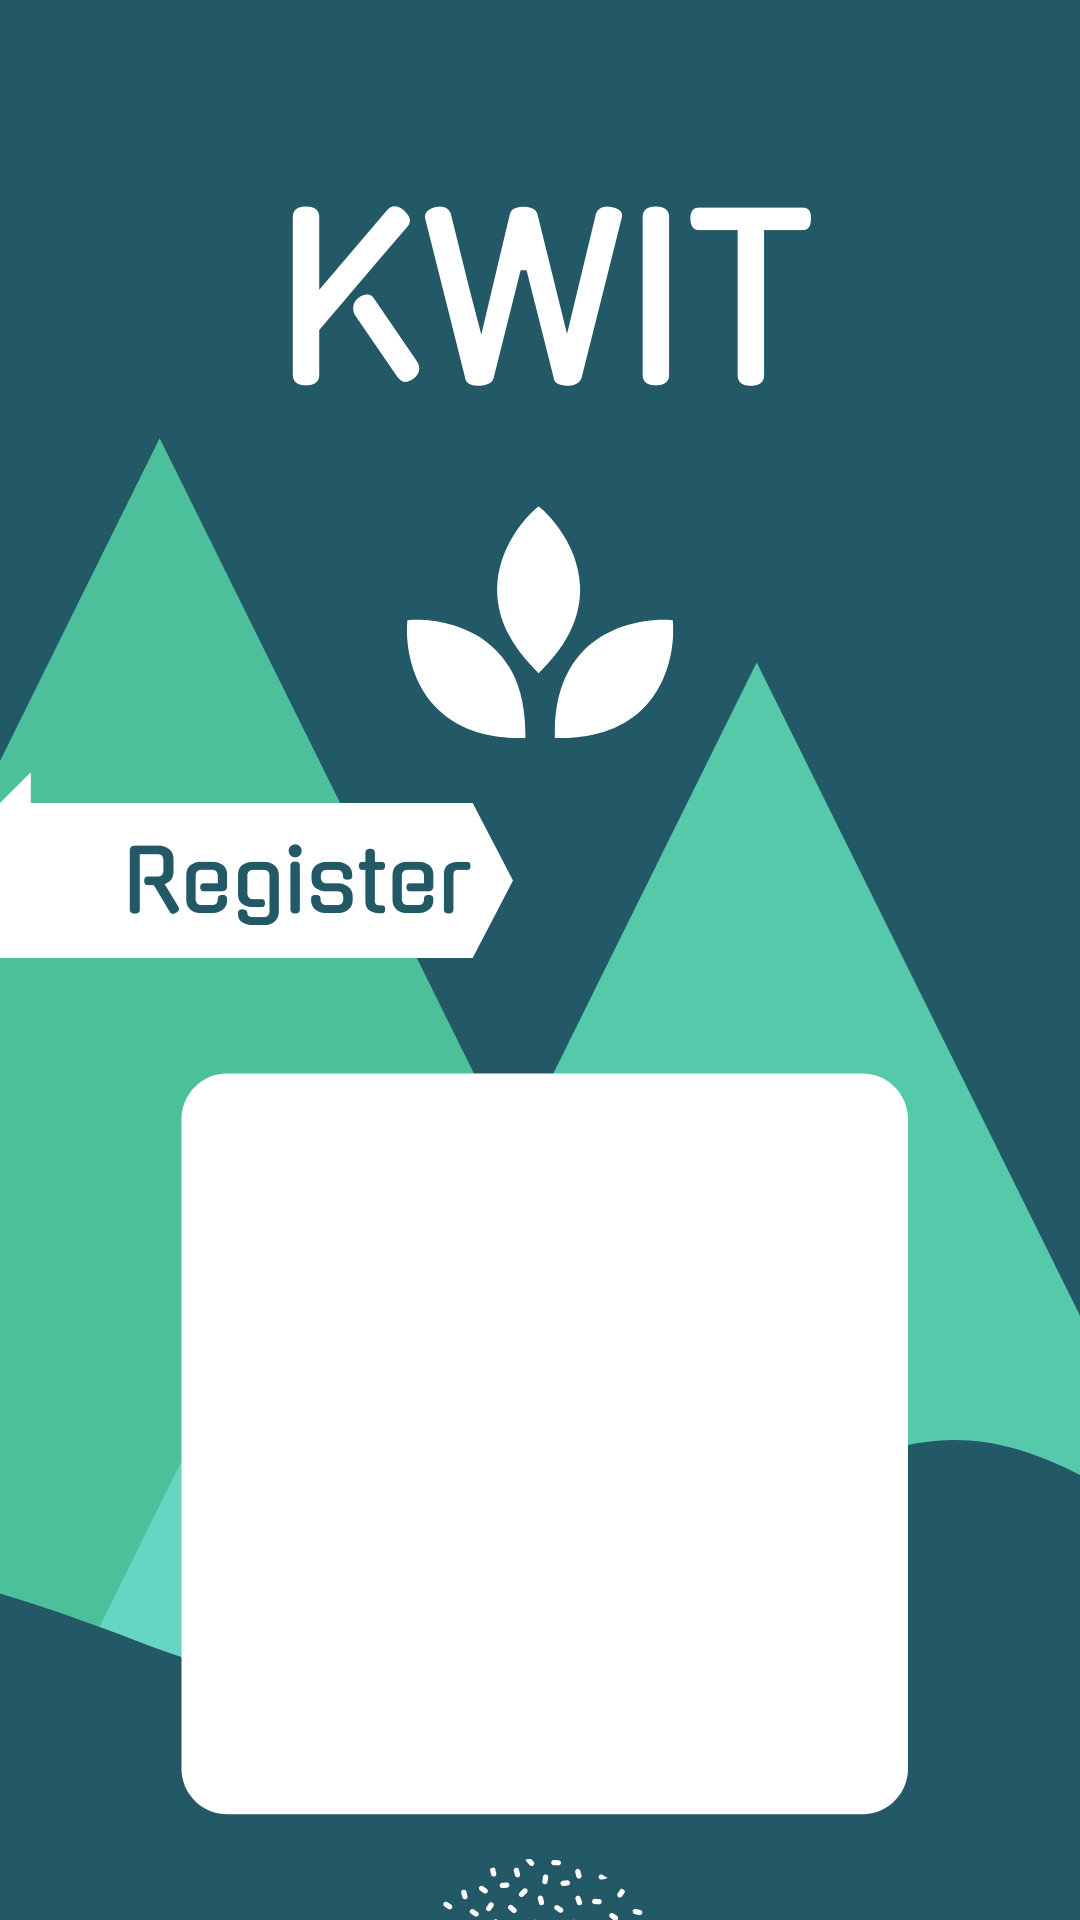
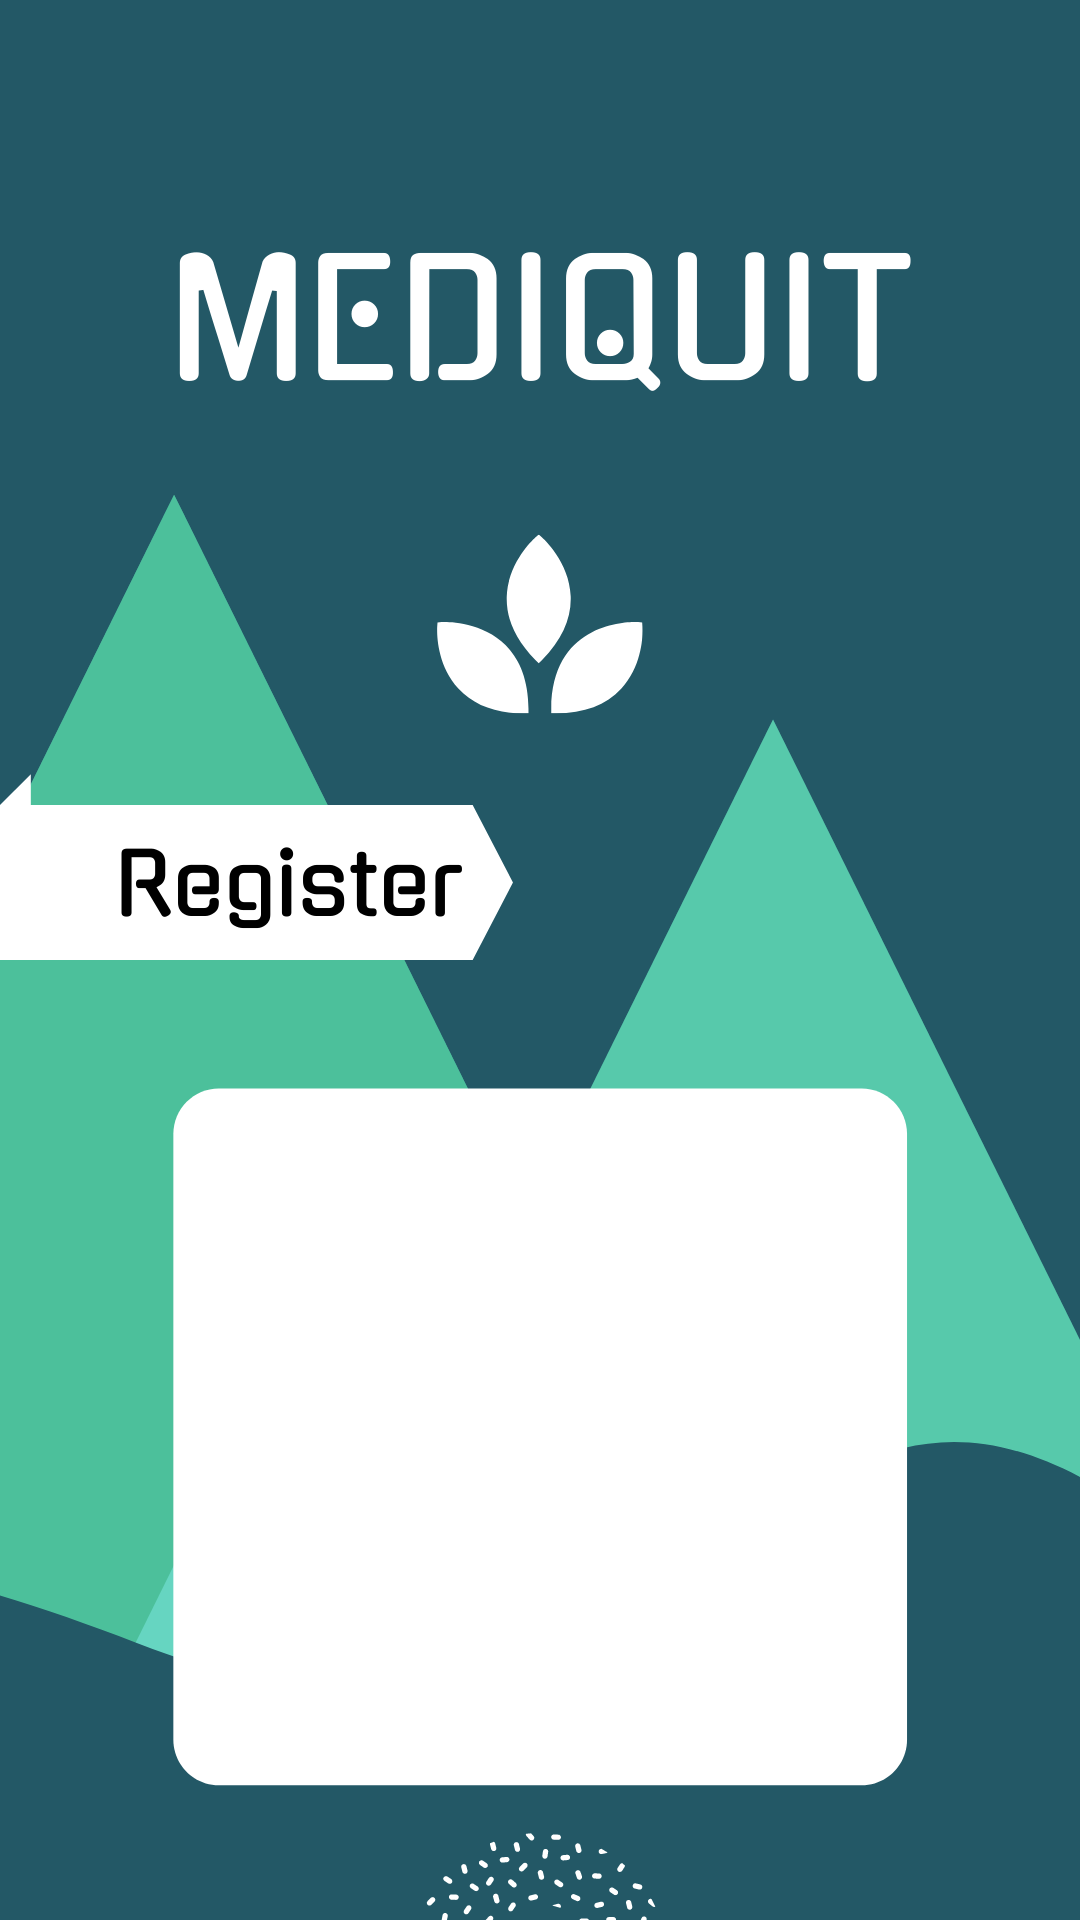
Change names in all portions of the app

diff --git a/lib/screens/dashboard.dart b/lib/screens/dashboard.dart
@@ -90,7 +90,7 @@ class _MyHomePageState extends State<MyHomePage> {
       backgroundColor: const Color(0xFF235866),
       appBar: AppBar(
         backgroundColor: const Color(0xFF235866),
-        title: Text('Kwit: Emotion Relief'),
+        title: Text('Mediquit: Emotion Relief'),
         actions: [
           Padding(
               padding: EdgeInsets.only(right: 20.0),
@@ -264,7 +264,7 @@ class _MyHomePageState extends State<MyHomePage> {
                                   subtitle: new Container(
                                     padding: EdgeInsets.only(top: 10),
                                     child: Text(
-                                      "If you're feeling stressed or experiencing anxiety, kwit is here for you! Working hand in hand with these therapies will allow you to relieve your stress in some extent and we hope you feel better after participating!",
+                                      "If you're feeling stressed or experiencing anxiety, Mediquit is here for you! Working hand in hand with these therapies will allow you to relieve your stress in some extent and we hope you feel better after participating!",
                                       style: TextStyle(
                                         color: const Color(0xFF242525),
                                       ),

diff --git a/lib/screens/videogame.dart b/lib/screens/videogame.dart
@@ -16,7 +16,7 @@ class gameScreen extends StatelessWidget {
   Widget build(BuildContext context) {
     return MaterialApp(
       debugShowCheckedModeBanner: false,
-      title: 'Kwit',
+      title: 'Mediquit',
       theme: ThemeData(
         primarySwatch: Colors.blue,
         visualDensity: VisualDensity.adaptivePlatformDensity,
@@ -100,9 +100,7 @@ class Main extends State<game> {
                 finish: MazeItem('assets/finishflag.png', ImageType.asset),
                 onFinish: () => {
                       showDialog(
-                        barrierDismissible: false,
-                        context: buildContext,
-                        child: new Container(
+                        builder: (context) => new Container(
                           child: AlertDialog(
                             clipBehavior: Clip.antiAlias,
                             shape: RoundedRectangleBorder(
@@ -170,6 +168,8 @@ class Main extends State<game> {
                             ),
                           ),
                         ),
+                        barrierDismissible: false,
+                        context: buildContext,
                       )
                     }),
           ),

diff --git a/lib/screens/rehab.dart b/lib/screens/rehab.dart
@@ -137,10 +137,10 @@ class _MyHomePageState extends State<clinics> {
     double sizewidth(BuildContext context) => MediaQuery.of(context).size.width;
 
     return Scaffold(
-        resizeToAvoidBottomPadding: false,
+        resizeToAvoidBottomInset: false,
         appBar: AppBar(
           backgroundColor: const Color(0xFF235866),
-          title: Text('Kwit: Emotion Relief'),
+          title: Text('Mediquit: Emotion Relief'),
           actions: [
             Padding(
                 padding: EdgeInsets.only(right: 20.0),

diff --git a/lib/screens/sad1.dart b/lib/screens/sad1.dart
@@ -20,7 +20,7 @@ class sad1 extends StatelessWidget {
   Widget build(BuildContext context) {
     return MaterialApp(
       debugShowCheckedModeBanner: false,
-      title: 'Kwit',
+      title: 'Mediquit',
       theme: ThemeData(
         primarySwatch: Colors.blue,
         visualDensity: VisualDensity.adaptivePlatformDensity,

diff --git a/lib/screens/sad2.dart b/lib/screens/sad2.dart
@@ -15,7 +15,7 @@ class sad2 extends StatelessWidget {
   Widget build(BuildContext context) {
     return MaterialApp(
       debugShowCheckedModeBanner: false,
-      title: 'Kwit',
+      title: 'Mediquit',
       theme: ThemeData(
         primarySwatch: Colors.blue,
         visualDensity: VisualDensity.adaptivePlatformDensity,

diff --git a/lib/screens/sad3.dart b/lib/screens/sad3.dart
@@ -17,7 +17,7 @@ class sad3 extends StatelessWidget {
   Widget build(BuildContext context) {
     return MaterialApp(
       debugShowCheckedModeBanner: false,
-      title: 'Kwit',
+      title: 'Mediquit',
       theme: ThemeData(
         primarySwatch: Colors.blue,
         visualDensity: VisualDensity.adaptivePlatformDensity,

diff --git a/lib/main.dart b/lib/main.dart
@@ -12,7 +12,7 @@ class App extends StatelessWidget {
   Widget build(BuildContext context) {
     return MaterialApp(
       debugShowCheckedModeBanner: false,
-      title: "Kwit",
+      title: "Mediquit",
       home: MyApp(),
     );
   }
